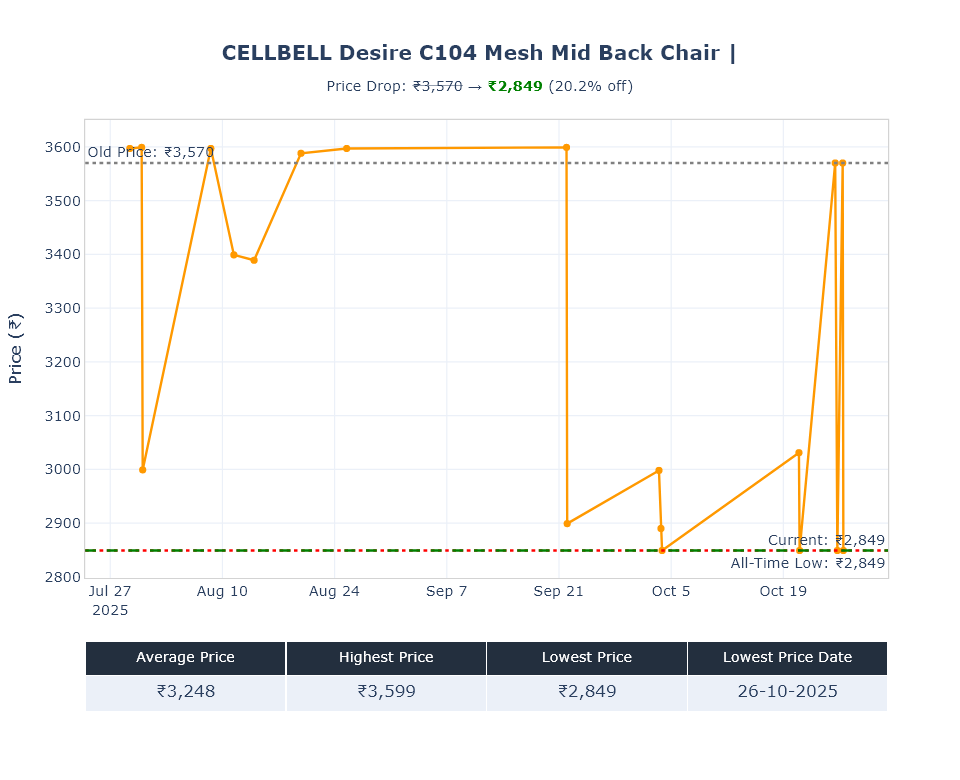
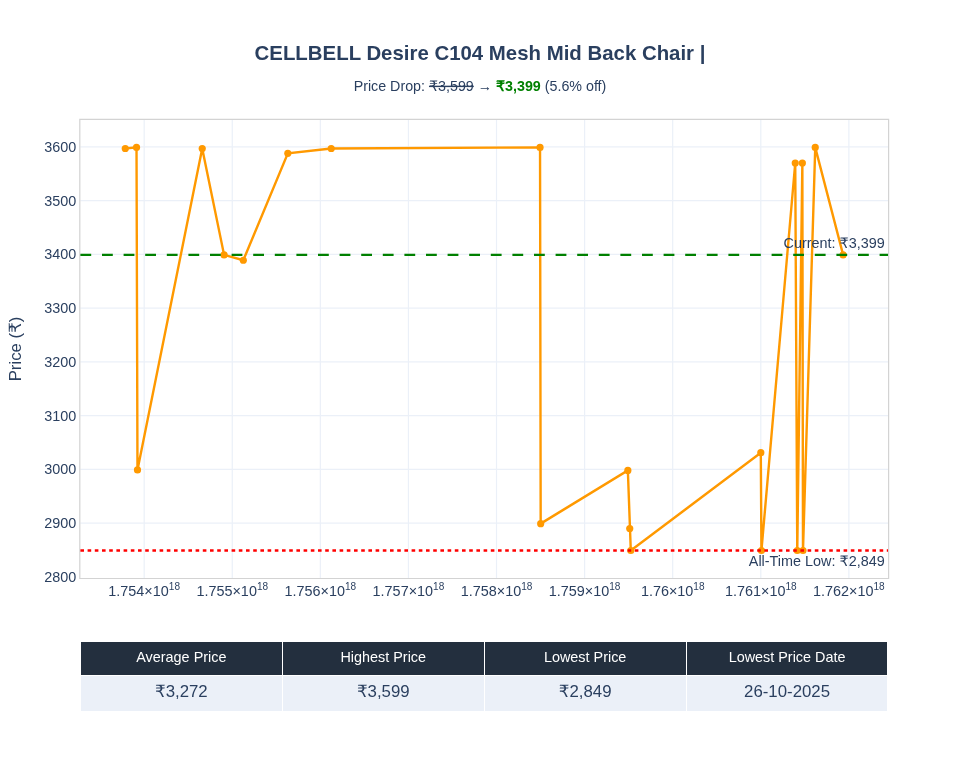
implemented a solution to detect un reasonable price caused by product not available

diff --git a/main.py b/main.py
@@ -1,6 +1,5 @@
 import asyncio
 import random
-import time
 from selenium.webdriver.common.by import By
 from selenium.common.exceptions import NoSuchElementException
 from last_run import save_last_run
@@ -11,10 +10,12 @@ from price_tracker import (
     save_price_history,
     format_title,
 )
+from price_tracker import is_sane_price
 from deal_analyzer import analyze_deal
 from chart_generator import generate_chart_image
 from telegram_sender import send_price_alert_telegram
 from utils import is_github_actions
+from utils import parse_price_to_int
 
 
 async def track_prices():
@@ -58,31 +59,70 @@ async def track_prices():
                     print(f"Product {product['name']} is unavailable.")
                     continue
 
-                new_price = int(price_element.text.replace(",", "").replace(".", ""))
-                current_price = int(product["price"])
+                # Parse price robustly (handles commas and decimals)
+                parsed = parse_price_to_int(price_element.text)
+                if parsed is None:
+                    product["status"] = "Unavailable"
+                    print(
+                        f"Could not parse price for {product.get('name', product_id)}. Skipping."
+                    )
+                    continue
+                new_price = parsed
+
+                try:
+                    current_price = int(product["price"])
+                except Exception:
+                    # If current price missing or invalid, treat as 0 so we can initialize
+                    current_price = 0
+
+                # Basic sanity check against history and last price
+                if not is_sane_price(product_id, new_price):
+                    print(
+                        f"Suspicious price detected for {product_id}: {new_price}. Skipping update."
+                    )
+                    product["status"] = "Suspicious"
+                    continue
 
                 if new_price < current_price:
-                    # Price dropped - save and notify
-                    save_price_history(product_id, new_price)
-                    product["price"] = new_price
-                    product["status"] = ""
+                    # Price dropped - save and notify (only if save succeeds)
+                    saved = save_price_history(product_id, new_price)
+                    if not saved:
+                        print(
+                            f"Did not save suspicious/invalid drop for {product_id}: {new_price}"
+                        )
+                        product["status"] = "Suspicious"
+                    else:
+                        product["price"] = new_price
+                        product["status"] = ""
 
-                    deal_analysis = analyze_deal(product_id, new_price, current_price)
+                        deal_analysis = analyze_deal(
+                            product_id, new_price, current_price
+                        )
 
-                    chart_path = generate_chart_image(
-                        product_id, title, current_price, new_price
-                    )
-                    await send_price_alert_telegram(
-                        product, current_price, new_price, chart_path, deal_analysis
-                    )
-                    print(f"🤑 Price dropped for {product['name']} to {new_price}")
+                        chart_path = generate_chart_image(
+                            product_id, title, current_price, new_price
+                        )
+                        await send_price_alert_telegram(
+                            product, current_price, new_price, chart_path, deal_analysis
+                        )
+                        print(f"🤑 Price dropped for {product['name']} to {new_price}")
                 elif new_price > current_price:
-                    # Price increased - just update
-                    save_price_history(product_id, new_price)
-                    generate_chart_image(product_id, title, current_price, new_price)
-                    product["price"] = new_price
-                    product["status"] = ""
-                    print(f"🥲 Price increased for {product['name']} to {new_price}")
+                    # Price increased - just update (only if save succeeds)
+                    saved = save_price_history(product_id, new_price)
+                    if saved:
+                        generate_chart_image(
+                            product_id, title, current_price, new_price
+                        )
+                        product["price"] = new_price
+                        product["status"] = ""
+                        print(
+                            f"🥲 Price increased for {product['name']} to {new_price}"
+                        )
+                    else:
+                        print(
+                            f"Did not save suspicious/invalid increase for {product_id}: {new_price}"
+                        )
+                        product["status"] = "Suspicious"
                 else:
                     print(f"🙂 Price unchanged for {product['name']}")
 

diff --git a/price_tracker.py b/price_tracker.py
@@ -122,9 +122,12 @@ def save_price_history(product_id, price):
             with open(history_file, "a") as f:
                 f.write(f"{timestamp_changed},{price}\n")
             return
-
         last_entry = lines[-1].strip().split(",")
-        last_price = int(last_entry[1])
+        try:
+            last_price = int(last_entry[1])
+        except Exception:
+            # If last price can't be parsed, don't block saving new price
+            last_price = None
         last_date = last_entry[0].split()[0]  # Extract date part only
         current_date = current_datetime.strftime("%d-%m-%Y")
 
@@ -139,8 +142,38 @@ def save_price_history(product_id, price):
         timestamp_to_use = timestamp_unchanged  # Same price, new day - use 00:00:00
 
     if save_entry:
+        # basic sanity check: ignore obvious spikes/drops relative to last_price
+        if last_price is not None:
+            # If new price is 10x higher or 10x lower than last_price, consider it invalid
+            if price > last_price * 10 or price < max(1, int(last_price * 0.1)):
+                print(
+                    f"Suspicious price for {product_id}: {price} (last: {last_price}). Skipping save."
+                )
+                return False
+
         with open(history_file, "a") as f:
             f.write(f"{timestamp_to_use},{price}\n")
+        return True
+    return False
+
+
+def is_sane_price(product_id: str, price: int) -> bool:
+    """Quick sanity check against recent history. Returns True if price looks reasonable."""
+    history_file = os.path.join(DATA_DIR, f"{product_id}.csv")
+    if not os.path.exists(history_file):
+        return True
+    try:
+        with open(history_file, "r") as f:
+            lines = f.readlines()
+            if len(lines) <= 1:
+                return True
+            last_entry = lines[-1].strip().split(",")
+            last_price = int(last_entry[1])
+            if price > last_price * 10 or price < max(1, int(last_price * 0.1)):
+                return False
+            return True
+    except Exception:
+        return True
 
 
 def push_to_github():

diff --git a/utils.py b/utils.py
@@ -1,5 +1,6 @@
 import os
 import pandas as pd
+import re
 
 
 def is_github_actions():
@@ -25,3 +26,31 @@ def load_and_process_data(history_file):
     df = df.sort_values("datetime")
 
     return df if not df.empty else None
+
+
+def parse_price_to_int(text: str) -> int | None:
+    """Parse a price string from Amazon and return integer rupees.
+
+    Handles formats like '₹1,019.90', '1,019', '1,019.00', and plain digits.
+    Returns None if parsing fails.
+    """
+    if not text:
+        return None
+    s = str(text).strip()
+    # Keep digits, commas and dots
+    s = re.sub(r"[^0-9,\.]", "", s)
+    if not s:
+        return None
+
+    try:
+        # If both comma and dot present, assume comma is thousands sep and dot is decimal
+        if "," in s and "." in s:
+            s2 = s.replace(",", "")
+            value = float(s2)
+        else:
+            # If only commas present, remove them (they're thousands separators)
+            s2 = s.replace(",", "")
+            value = float(s2)
+        return int(round(value))
+    except Exception:
+        return None
